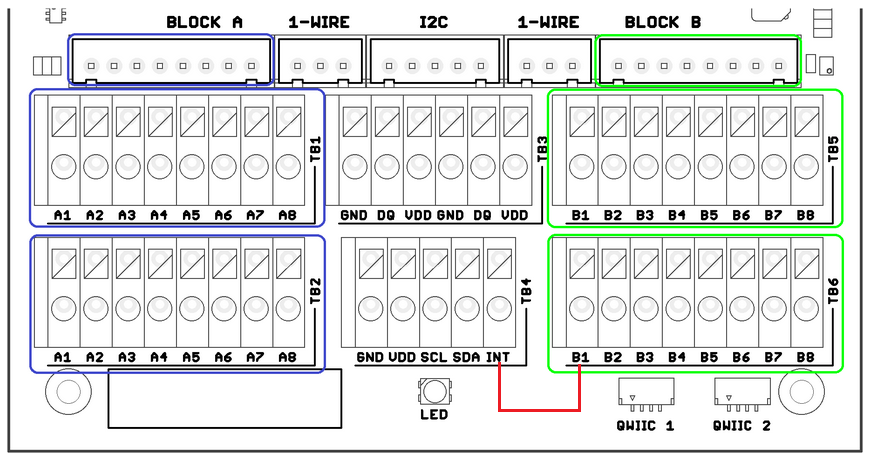
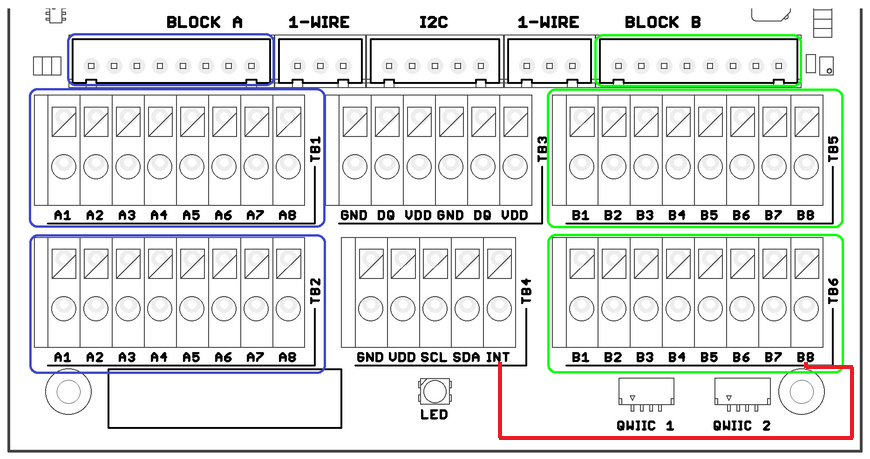
CHESTER-X13, X14: Fix the mirrored terminal block pinouts (EN, CS)
The pinout images and tables listed the pins in reverse order. Verified
against KiCad, the schematics and the iBOM:
- X13: 1 +VIN, 2 GND, 3 GND, 4 RL, 5 CANL, 6 CANH, 7 RH, 8 INT
- X14: 1 Tx+, 2 Tx-, 3 Rx+, 4 Rx-, 5 GND, 6 +VIN, 7 +V, 8 INT

Updated the pin references in the text, the X14 RJ-45 wiring table and
the shared INT wiring diagram (INT now goes to B8, not B1).

Changed region(s): [[0.5586, 0.793, 0.9931, 0.976]]

diff --git a/i18n/cs/docusaurus-plugin-content-docs/current/extension-modules/chester-x13.md b/i18n/cs/docusaurus-plugin-content-docs/current/extension-modules/chester-x13.md
@@ -79,21 +79,21 @@ Zobrazené zapojení pinů platí pro základní desku CHESTER-M CGLS.
 
 ### Zapojení konektoru CHESTER-X13 {#chester-x13-connector-pinout}
 
-![Zapojení svorkovnice CHESTER-X13: INT, RH, CANH, CANL, RL, GND, GND, +VIN na pinech 1-8](../../../../../chester/extension-modules/images/tb-chester-x13.png)
+![Zapojení svorkovnice CHESTER-X13: +VIN, GND, GND, RL, CANL, CANH, RH, INT na pinech 1-8](../../../../../chester/extension-modules/images/tb-chester-x13.png)
 
 | Pin | Signál | Typ | Popis |
 | :---: | :--- | :--- | :--- |
-| 1 | INT | Výstup | Výstup přerušení k základní desce CHESTER |
-| 2 | RH | Zakončení CAN | Vývod zakončení pro CANH (spojením s CANH zapnete zakončení na desce) |
-| 3 | CANH | Sběrnice CAN | Linka sběrnice CAN, high |
-| 4 | CANL | Sběrnice CAN | Linka sběrnice CAN, low |
-| 5 | RL | Zakončení CAN | Vývod zakončení pro CANL (spojením s CANL zapnete zakončení na desce) |
-| 6 | GND | Zem | Systémová zem |
-| 7 | GND | Zem | Systémová zem |
-| 8 | +VIN | Napájecí vstup | Volitelný externí stejnosměrný vstup do snižujícího měniče na desce (6-28 V DC) |
+| 1 | +VIN | Napájecí vstup | Volitelný externí stejnosměrný vstup do snižujícího měniče na desce (6-28 V DC) |
+| 2 | GND | Zem | Systémová zem |
+| 3 | GND | Zem | Systémová zem |
+| 4 | RL | Zakončení CAN | Vývod zakončení pro CANL (spojením s CANL zapnete zakončení na desce) |
+| 5 | CANL | Sběrnice CAN | Linka sběrnice CAN, low |
+| 6 | CANH | Sběrnice CAN | Linka sběrnice CAN, high |
+| 7 | RH | Zakončení CAN | Vývod zakončení pro CANH (spojením s CANH zapnete zakončení na desce) |
+| 8 | INT | Výstup | Výstup přerušení k základní desce CHESTER |
 
 :::info
-Modul může běžet přímo ze základní desky CHESTER. Když je na **+VIN** (pin 8) připojené externí napájení **6-28 V DC**, vytváří snižující měnič TPS62933 na desce pevných **5 V**, kterými se napájí základní deska CHESTER.
+Modul může běžet přímo ze základní desky CHESTER. Když je na **+VIN** (pin 1) připojené externí napájení **6-28 V DC**, vytváří snižující měnič TPS62933 na desce pevných **5 V**, kterými se napájí základní deska CHESTER.
 :::
 
 ### Rozhraní k hostu (SPI) {#host-interface-spi}
@@ -107,27 +107,27 @@ Na rozdíl od většiny modulů CHESTER-X (které používají **I²C**) komunik
 | GP2 | MISO | SDO |
 | GP3 | CS | NCS |
 
-Výstup přerušení (INT) čipu MCP2518FD je vyvedený na svorku **INT** modulu (pin 1). Viz podsekce [Pin přerušení](#interrupt-pin) níže.
+Výstup přerušení (INT) čipu MCP2518FD je vyvedený na svorku **INT** modulu (pin 8). Viz podsekce [Pin přerušení](#interrupt-pin) níže.
 
 ### Pin přerušení {#interrupt-pin}
 
-Řadič MCP2518FD signalizuje události (například přijatý rámec CAN) na svém výstupu přerušení, který je vyvedený na svorku **INT** modulu (pin 1). Toto přerušení **musí být propojené se svorkou INT základní desky CHESTER**, aby ho deska mohla zaznamenat. Na základní desce **CHESTER-M CGLS** přidejte propojovací vodič ze svorkovnice rozšiřujícího modulu na svorku INT základní desky. Zapojení níže je znázorněné pro modul ve **slotu B**; modul v jiném slotu se stejným způsobem připojí ke svorce INT daného slotu.
+Řadič MCP2518FD signalizuje události (například přijatý rámec CAN) na svém výstupu přerušení, který je vyvedený na svorku **INT** modulu (pin 8). Toto přerušení **musí být propojené se svorkou INT základní desky CHESTER**, aby ho deska mohla zaznamenat. Na základní desce **CHESTER-M CGLS** přidejte propojovací vodič ze svorkovnice rozšiřujícího modulu na svorku INT základní desky. Zapojení níže je znázorněné pro modul ve **slotu B**; modul v jiném slotu se stejným způsobem připojí ke svorce INT daného slotu.
 
 ![Nákres základní desky CHESTER s vodičem, který spojuje svorku INT slotu B s pinem přerušení modulu](../../../../../chester/extension-modules/images/int-pin.png)
 
-* Příklad: zapojení přerušení pro modul ve slotu B (CHESTER-M CGLS).
+* Příklad: zapojení přerušení pro modul ve slotu B (CHESTER-M CGLS): INT modulu (pin 8) je na svorce **B8**.
 
 ## Připojení sběrnice CAN {#can-bus-connection}
 
-Sběrnice CAN se zapojuje přímo na piny svorkovnice **CANH** (pin 3) a **CANL** (pin 4). Použijte **kroucenou dvojlinku** s charakteristickou impedancí **120 Ω**, sběrnici veďte v **lineární (řetězové) topologii** (vyhněte se hvězdicovému rozvržení a dlouhým odbočkám) a nekroucenou část kabeláže u svorkovnice udržujte **co nejkratší**.
+Sběrnice CAN se zapojuje přímo na piny svorkovnice **CANH** (pin 6) a **CANL** (pin 5). Použijte **kroucenou dvojlinku** s charakteristickou impedancí **120 Ω**, sběrnici veďte v **lineární (řetězové) topologii** (vyhněte se hvězdicovému rozvržení a dlouhým odbočkám) a nekroucenou část kabeláže u svorkovnice udržujte **co nejkratší**.
 
-Rozhraní CAN **není galvanicky oddělené**, takže všechny uzly sběrnice musí mít společnou zem. Zem sběrnice **GND** připojte na jeden z pinů GND svorkovnice (pin 6 nebo 7).
+Rozhraní CAN **není galvanicky oddělené**, takže všechny uzly sběrnice musí mít společnou zem. Zem sběrnice **GND** připojte na jeden z pinů GND svorkovnice (pin 2 nebo 3).
 
 ### Zakončovací rezistory {#termination-resistors}
 
 Sběrnice CAN musí být na **obou fyzických koncích** zakončená rezistorem **120 Ω** mezi CANH a CANL. Modul CHESTER-X13 má zakončovací rezistor na desce, který je ve výchozím stavu **odpojený** (uzel uprostřed sběrnice zakončený být nesmí).
 
-Připojte ho **jen tehdy, když je modul na konci sběrnice**: na svorkovnici spojte **CANH s RH** (pin 3 s pinem 2) a **CANL s RL** (pin 4 s pinem 5).
+Připojte ho **jen tehdy, když je modul na konci sběrnice**: na svorkovnici spojte **CANH s RH** (pin 6 s pinem 7) a **CANL s RL** (pin 5 s pinem 4).
 
 ### Průchod krabičkou {#enclosure-feed-through}
 

diff --git a/chester/extension-modules/chester-x13.md b/chester/extension-modules/chester-x13.md
@@ -79,21 +79,21 @@ The pin configuration shown is for the CHESTER-M CGLS mainboard.
 
 ### CHESTER-X13 Connector Pinout
 
-![CHESTER-X13 terminal block pinout: INT, RH, CANH, CANL, RL, GND, GND, +VIN on pins 1-8](images/tb-chester-x13.png)
+![CHESTER-X13 terminal block pinout: +VIN, GND, GND, RL, CANL, CANH, RH, INT on pins 1-8](images/tb-chester-x13.png)
 
 | Pin | Signal | Type | Description |
 | :---: | :--- | :--- | :--- |
-| 1 | INT | Output | Interrupt output to the CHESTER mainboard |
-| 2 | RH | CAN Termination | Termination tap for CANH (connect to CANH to enable the on-board termination) |
-| 3 | CANH | CAN Bus | CAN bus line, high |
-| 4 | CANL | CAN Bus | CAN bus line, low |
-| 5 | RL | CAN Termination | Termination tap for CANL (connect to CANL to enable the on-board termination) |
-| 6 | GND | Ground | System ground reference |
-| 7 | GND | Ground | System ground reference |
-| 8 | +VIN | Power Input | Optional external DC input to the on-board step-down (6-28 VDC) |
+| 1 | +VIN | Power Input | Optional external DC input to the on-board step-down (6-28 VDC) |
+| 2 | GND | Ground | System ground reference |
+| 3 | GND | Ground | System ground reference |
+| 4 | RL | CAN Termination | Termination tap for CANL (connect to CANL to enable the on-board termination) |
+| 5 | CANL | CAN Bus | CAN bus line, low |
+| 6 | CANH | CAN Bus | CAN bus line, high |
+| 7 | RH | CAN Termination | Termination tap for CANH (connect to CANH to enable the on-board termination) |
+| 8 | INT | Output | Interrupt output to the CHESTER mainboard |
 
 :::info
-The module can run directly from the CHESTER mainboard. When an external **6-28 VDC** supply is connected to **+VIN** (Pin 8), the on-board TPS62933 step-down converter produces a fixed **5 V** that powers the CHESTER mainboard.
+The module can run directly from the CHESTER mainboard. When an external **6-28 VDC** supply is connected to **+VIN** (Pin 1), the on-board TPS62933 step-down converter produces a fixed **5 V** that powers the CHESTER mainboard.
 :::
 
 ### Host Interface (SPI)
@@ -107,27 +107,27 @@ Unlike most CHESTER-X modules (which use **I²C**), CHESTER-X13 communicates wit
 | GP2 | MISO | SDO |
 | GP3 | CS | NCS |
 
-The MCP2518FD interrupt output (INT) is routed to the module's **INT** terminal (pin 1). See the [Interrupt Pin](#interrupt-pin) subsection below.
+The MCP2518FD interrupt output (INT) is routed to the module's **INT** terminal (pin 8). See the [Interrupt Pin](#interrupt-pin) subsection below.
 
 ### Interrupt Pin
 
-The MCP2518FD signals events (such as a received CAN frame) on its interrupt output, which is brought out to the module's **INT** terminal (pin 1). This interrupt **must be wired to the CHESTER mainboard's INT terminal** so the mainboard can detect it. On the **CHESTER-M CGLS** mainboard, add a jumper wire from the extension module's terminal block to the mainboard's INT terminal. The wiring below is shown for a module in **slot B**; a module in another slot connects to that slot's INT terminal the same way.
+The MCP2518FD signals events (such as a received CAN frame) on its interrupt output, which is brought out to the module's **INT** terminal (pin 8). This interrupt **must be wired to the CHESTER mainboard's INT terminal** so the mainboard can detect it. On the **CHESTER-M CGLS** mainboard, add a jumper wire from the extension module's terminal block to the mainboard's INT terminal. The wiring below is shown for a module in **slot B**; a module in another slot connects to that slot's INT terminal the same way.
 
 ![CHESTER mainboard drawing with a wire linking the slot B INT terminal to the module interrupt pin](images/int-pin.png)
 
-* Example: interrupt wiring for a module in slot B (CHESTER-M CGLS).
+* Example: interrupt wiring for a module in slot B (CHESTER-M CGLS): the module INT (pin 8) appears on terminal **B8**.
 
 ## CAN Bus Connection
 
-The CAN bus is wired directly to the terminal-block pins **CANH** (pin 3) and **CANL** (pin 4). Use **twisted-pair** cable with a **120 Ω** characteristic impedance, wire the bus as a **linear (daisy-chain) topology** (avoid star layouts and long stubs), and keep any untwisted wiring at the terminal block **as short as possible**.
+The CAN bus is wired directly to the terminal-block pins **CANH** (pin 6) and **CANL** (pin 5). Use **twisted-pair** cable with a **120 Ω** characteristic impedance, wire the bus as a **linear (daisy-chain) topology** (avoid star layouts and long stubs), and keep any untwisted wiring at the terminal block **as short as possible**.
 
-The CAN interface is **not galvanically isolated**, so all nodes must share a common ground reference. Connect the bus **GND** to one of the terminal-block GND pins (pin 6 or 7).
+The CAN interface is **not galvanically isolated**, so all nodes must share a common ground reference. Connect the bus **GND** to one of the terminal-block GND pins (pin 2 or 3).
 
 ### Termination Resistors
 
 A CAN bus must be terminated with a **120 Ω** resistor between CANH and CANL at **both physical ends** of the bus. CHESTER-X13 provides an on-board termination that is **disconnected by default** (a node in the middle of the bus must not be terminated).
 
-Enable it **only when the module sits at the end of the bus** by connecting **CANH to RH** (pin 3 to pin 2) and **CANL to RL** (pin 4 to pin 5) on the terminal block.
+Enable it **only when the module sits at the end of the bus** by connecting **CANH to RH** (pin 6 to pin 7) and **CANL to RL** (pin 5 to pin 4) on the terminal block.
 
 ### Enclosure Feed-Through
 

diff --git a/i18n/cs/docusaurus-plugin-content-docs/current/extension-modules/chester-x14.md b/i18n/cs/docusaurus-plugin-content-docs/current/extension-modules/chester-x14.md
@@ -77,21 +77,21 @@ Zobrazené zapojení pinů platí pro základní desku CHESTER-M CGLS.
 
 ### Zapojení konektoru CHESTER-X14 {#chester-x14-connector-pinout}
 
-![Zapojení svorkovnice CHESTER-X14: INT, +V, +VIN, GND, Rx-, Rx+, Tx-, Tx+ na pinech 1-8](../../../../../chester/extension-modules/images/tb-chester-x14.png)
+![Zapojení svorkovnice CHESTER-X14: Tx+, Tx-, Rx+, Rx-, GND, +VIN, +V, INT na pinech 1-8](../../../../../chester/extension-modules/images/tb-chester-x14.png)
 
 | Pin | Signál | Typ | Popis |
 | :---: | :--- | :--- | :--- |
-| 1 | INT | Výstup | Výstup přerušení k základní desce CHESTER |
-| 2 | +V | Napájecí výstup | Pevných 5 V ze snižujícího měniče na desce (napájí základní desku CHESTER) |
-| 3 | +VIN | Napájecí vstup | Volitelný externí stejnosměrný vstup do snižujícího měniče na desce (6-28 V DC) |
-| 4 | GND | Zem | Systémová zem |
-| 5 | Rx- | Ethernet | Přijímací pár (záporný) |
-| 6 | Rx+ | Ethernet | Přijímací pár (kladný) |
-| 7 | Tx- | Ethernet | Vysílací pár (záporný) |
-| 8 | Tx+ | Ethernet | Vysílací pár (kladný) |
+| 1 | Tx+ | Ethernet | Vysílací pár (kladný) |
+| 2 | Tx- | Ethernet | Vysílací pár (záporný) |
+| 3 | Rx+ | Ethernet | Přijímací pár (kladný) |
+| 4 | Rx- | Ethernet | Přijímací pár (záporný) |
+| 5 | GND | Zem | Systémová zem |
+| 6 | +VIN | Napájecí vstup | Volitelný externí stejnosměrný vstup do snižujícího měniče na desce (6-28 V DC) |
+| 7 | +V | Napájecí výstup | Pevných 5 V ze snižujícího měniče na desce (napájí základní desku CHESTER) |
+| 8 | INT | Výstup | Výstup přerušení k základní desce CHESTER |
 
 :::info
-Modul může běžet přímo ze základní desky CHESTER. Když je na **+VIN** (pin 3) připojené externí napájení **6-28 V DC**, vytváří snižující měnič TPS62933 na desce pevných **5 V** na **+V** (pin 2), kterými se napájí základní deska CHESTER.
+Modul může běžet přímo ze základní desky CHESTER. Když je na **+VIN** (pin 6) připojené externí napájení **6-28 V DC**, vytváří snižující měnič TPS62933 na desce pevných **5 V** na **+V** (pin 7), kterými se napájí základní deska CHESTER.
 :::
 
 ### Rozhraní k hostu (SPI) {#host-interface-spi}
@@ -105,15 +105,15 @@ Na rozdíl od většiny modulů CHESTER-X (které používají **I²C**) komunik
 | GP2 | SCLK | ETH_SCLK |
 | GP3 | CS | ETH_CS |
 
-Výstup přerušení (INTn) čipu W5500 je vyvedený na svorku **INT** modulu (pin 1). Viz podsekce [Pin přerušení](#interrupt-pin) níže.
+Výstup přerušení (INTn) čipu W5500 je vyvedený na svorku **INT** modulu (pin 8). Viz podsekce [Pin přerušení](#interrupt-pin) níže.
 
 ### Pin přerušení {#interrupt-pin}
 
-Kontrolér W5500 signalizuje události (například příchozí paket) na svém výstupu přerušení, který je vyvedený na svorku **INT** modulu (pin 1). Toto přerušení **musí být propojené se svorkou INT základní desky CHESTER**, aby ho deska mohla zaznamenat. Na základní desce **CHESTER-M CGLS** přidejte propojovací vodič ze svorkovnice rozšiřujícího modulu na svorku INT základní desky. Zapojení níže je znázorněné pro modul ve **slotu B**; modul v jiném slotu se stejným způsobem připojí ke svorce INT daného slotu.
+Kontrolér W5500 signalizuje události (například příchozí paket) na svém výstupu přerušení, který je vyvedený na svorku **INT** modulu (pin 8). Toto přerušení **musí být propojené se svorkou INT základní desky CHESTER**, aby ho deska mohla zaznamenat. Na základní desce **CHESTER-M CGLS** přidejte propojovací vodič ze svorkovnice rozšiřujícího modulu na svorku INT základní desky. Zapojení níže je znázorněné pro modul ve **slotu B**; modul v jiném slotu se stejným způsobem připojí ke svorce INT daného slotu.
 
 ![Nákres základní desky CHESTER s vodičem, který spojuje svorku INT slotu B s pinem přerušení modulu](../../../../../chester/extension-modules/images/int-pin.png)
 
-* Příklad: zapojení přerušení pro modul ve slotu B (CHESTER-M CGLS).
+* Příklad: zapojení přerušení pro modul ve slotu B (CHESTER-M CGLS): INT modulu (pin 8) je na svorce **B8**.
 
 ## Připojení Ethernetu {#ethernet-connection}
 
@@ -125,11 +125,11 @@ Ethernetový kabel zapojte do svorkovnice podle tabulky níže. Pin RJ-45 a barv
 
 | Pin RJ-45 | Vodič (T568B) | Signál Ethernetu | Pin CHESTER-X14 |
 | :---: | :--- | :--- | :---: |
-| 1 | Bílo-oranžový | ETH_TD+ (Tx+) | 8 |
-| 2 | Oranžový | ETH_TD- (Tx-) | 7 |
-| 3 | Bílo-zelený | ETH_RD+ (Rx+) | 6 |
-| 6 | Zelený | ETH_RD- (Rx-) | 5 |
-| 8 | Hnědý | ETH_GND (GND) | 4 |
+| 1 | Bílo-oranžový | ETH_TD+ (Tx+) | 1 |
+| 2 | Oranžový | ETH_TD- (Tx-) | 2 |
+| 3 | Bílo-zelený | ETH_RD+ (Rx+) | 3 |
+| 6 | Zelený | ETH_RD- (Rx-) | 4 |
+| 8 | Hnědý | ETH_GND (GND) | 5 |
 
 ### Průchod krabičkou {#enclosure-feed-through}
 

diff --git a/chester/extension-modules/chester-x14.md b/chester/extension-modules/chester-x14.md
@@ -77,21 +77,21 @@ The pin configuration shown is for the CHESTER-M CGLS mainboard.
 
 ### CHESTER-X14 Connector Pinout
 
-![CHESTER-X14 terminal block pinout: INT, +V, +VIN, GND, Rx-, Rx+, Tx-, Tx+ on pins 1-8](images/tb-chester-x14.png)
+![CHESTER-X14 terminal block pinout: Tx+, Tx-, Rx+, Rx-, GND, +VIN, +V, INT on pins 1-8](images/tb-chester-x14.png)
 
 | Pin | Signal | Type | Description |
 | :---: | :--- | :--- | :--- |
-| 1 | INT | Output | Interrupt output to the CHESTER mainboard |
-| 2 | +V | Power Output | Fixed 5 V from the on-board step-down (powers the CHESTER mainboard) |
-| 3 | +VIN | Power Input | Optional external DC input to the on-board step-down (6-28 VDC) |
-| 4 | GND | Ground | System ground reference |
-| 5 | Rx- | Ethernet | Receive pair (negative) |
-| 6 | Rx+ | Ethernet | Receive pair (positive) |
-| 7 | Tx- | Ethernet | Transmit pair (negative) |
-| 8 | Tx+ | Ethernet | Transmit pair (positive) |
+| 1 | Tx+ | Ethernet | Transmit pair (positive) |
+| 2 | Tx- | Ethernet | Transmit pair (negative) |
+| 3 | Rx+ | Ethernet | Receive pair (positive) |
+| 4 | Rx- | Ethernet | Receive pair (negative) |
+| 5 | GND | Ground | System ground reference |
+| 6 | +VIN | Power Input | Optional external DC input to the on-board step-down (6-28 VDC) |
+| 7 | +V | Power Output | Fixed 5 V from the on-board step-down (powers the CHESTER mainboard) |
+| 8 | INT | Output | Interrupt output to the CHESTER mainboard |
 
 :::info
-The module can run directly from the CHESTER mainboard. When an external **6-28 VDC** supply is connected to **+VIN** (Pin 3), the on-board TPS62933 step-down converter produces a fixed **5 V** on **+V** (Pin 2), which powers the CHESTER mainboard.
+The module can run directly from the CHESTER mainboard. When an external **6-28 VDC** supply is connected to **+VIN** (Pin 6), the on-board TPS62933 step-down converter produces a fixed **5 V** on **+V** (Pin 7), which powers the CHESTER mainboard.
 :::
 
 ### Host Interface (SPI)
@@ -105,15 +105,15 @@ Unlike most CHESTER-X modules (which use **I²C**), CHESTER-X14 communicates wit
 | GP2 | SCLK | ETH_SCLK |
 | GP3 | CS | ETH_CS |
 
-The W5500 interrupt output (INTn) is routed to the module's **INT** terminal (pin 1). See the [Interrupt Pin](#interrupt-pin) subsection below.
+The W5500 interrupt output (INTn) is routed to the module's **INT** terminal (pin 8). See the [Interrupt Pin](#interrupt-pin) subsection below.
 
 ### Interrupt Pin
 
-The W5500 signals events (such as an incoming packet) on its interrupt output, which is brought out to the module's **INT** terminal (pin 1). This interrupt **must be wired to the CHESTER mainboard's INT terminal** so the mainboard can detect it. On the **CHESTER-M CGLS** mainboard, add a jumper wire from the extension module's terminal block to the mainboard's INT terminal. The wiring below is shown for a module in **slot B**; a module in another slot connects to that slot's INT terminal the same way.
+The W5500 signals events (such as an incoming packet) on its interrupt output, which is brought out to the module's **INT** terminal (pin 8). This interrupt **must be wired to the CHESTER mainboard's INT terminal** so the mainboard can detect it. On the **CHESTER-M CGLS** mainboard, add a jumper wire from the extension module's terminal block to the mainboard's INT terminal. The wiring below is shown for a module in **slot B**; a module in another slot connects to that slot's INT terminal the same way.
 
 ![CHESTER mainboard drawing with a wire linking the slot B INT terminal to the module interrupt pin](images/int-pin.png)
 
-* Example: interrupt wiring for a module in slot B (CHESTER-M CGLS).
+* Example: interrupt wiring for a module in slot B (CHESTER-M CGLS): the module INT (pin 8) appears on terminal **B8**.
 
 ## Ethernet Connection
 
@@ -125,11 +125,11 @@ Wire the Ethernet cable to the terminal block as shown below. The RJ-45 pin and 
 
 | RJ-45 pin | Wire (T568B) | Ethernet signal | CHESTER-X14 pin |
 | :---: | :--- | :--- | :---: |
-| 1 | White/orange | ETH_TD+ (Tx+) | 8 |
-| 2 | Orange | ETH_TD- (Tx-) | 7 |
-| 3 | White/green | ETH_RD+ (Rx+) | 6 |
-| 6 | Green | ETH_RD- (Rx-) | 5 |
-| 8 | Brown | ETH_GND (GND) | 4 |
+| 1 | White/orange | ETH_TD+ (Tx+) | 1 |
+| 2 | Orange | ETH_TD- (Tx-) | 2 |
+| 3 | White/green | ETH_RD+ (Rx+) | 3 |
+| 6 | Green | ETH_RD- (Rx-) | 4 |
+| 8 | Brown | ETH_GND (GND) | 5 |
 
 ### Enclosure Feed-Through
 
